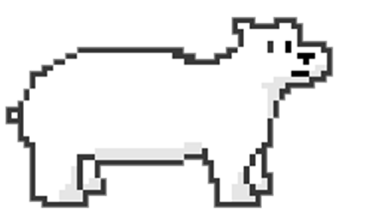
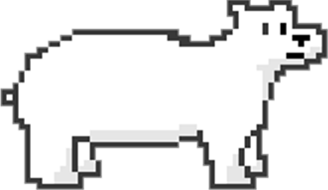
Enemigos e incremento de dificultad conforme se avanza

Changed region(s): [[0.0, 0.0, 1.0, 1.0], [0.2744, 0.6842, 0.4878, 0.7105]]

diff --git a/core/src/mx/itesm/eko/PantallaJuego.java b/core/src/mx/itesm/eko/PantallaJuego.java
@@ -23,11 +23,16 @@ class PantallaJuego extends PantallaAbstracta {
     // Personaje
     private Personaje personaje;
     private Enemigo enemigo;
+    private Enemigo enemigo1;
+    private Enemigo enemigo2;
+    private Enemigo enemigo3;
 
     // Texturas
     private Texture texturaPersonaje;
     private Texture texturaFondo;
-    private Texture texturaEnemigo;
+    private Texture texturaEnemigo1;
+    private Texture texturaEnemigo2;
+    private Texture texturaEnemigo3;
     private Texture texturaPersonajeAbajo;
 
     // Movimientos
@@ -35,7 +40,8 @@ class PantallaJuego extends PantallaAbstracta {
     private Movimiento movimientoEnemigo = Movimiento.IZQUIERDA;
     private float timerPersonaje = 0;
     private float timerEnemigo = 0;
-    private int pasoEnemigo = 5;
+    private int pasoEnemigo = 10;
+    private float velocidadEnemigo;
 
     // Marcador
     private Marcador marcador;
@@ -73,12 +79,17 @@ class PantallaJuego extends PantallaAbstracta {
     }
 
     private void createEnemigo(){
-        enemigo=new Enemigo(texturaEnemigo,ANCHO,ALTO*0.05f,1);
+        enemigo1=new Enemigo(texturaEnemigo1,ANCHO,ALTO*0.05f,1);
+        enemigo2=new Enemigo(texturaEnemigo2,ANCHO,ALTO*0.05f,2);
+        enemigo3=new Enemigo(texturaEnemigo3,ANCHO,ALTO*0.05f,3);
+        cambiarEnemigo();
     }
 
     private void cargarTexturas() {
         texturaPersonaje = new Texture("asset"+assets+".png");
-        texturaEnemigo = new Texture("enemigo"+assets+".png");
+        texturaEnemigo1 = new Texture("enemigo"+assets+"1.png");
+        texturaEnemigo2 = new Texture("enemigo"+assets+"2.png");
+        texturaEnemigo3 = new Texture("enemigo"+assets+"3.png");
         texturaPersonajeAbajo = new Texture("asset"+assets+"Abajo.png");
     }
 
@@ -114,6 +125,10 @@ class PantallaJuego extends PantallaAbstracta {
 
     private void actualizar(float delta) {
         marcador.marcar(1);
+        if (velocidadEnemigo<=25) {
+            velocidadEnemigo = 15 + marcador.getScore() * 0.0005f;
+
+        }
     }
 
     private void moverPersonaje(float delta) {
@@ -143,16 +158,44 @@ class PantallaJuego extends PantallaAbstracta {
     }
 
     private void moverEnemigo(float delta) {
-        switch (movimientoEnemigo){
-            case IZQUIERDA:
-                enemigo.moverHorizontal(-9);
+        switch (enemigo.getTipo()){
+            case 1:
+                enemigo.moverHorizontal(-velocidadEnemigo);
                 timerEnemigo += delta;
                 if (timerEnemigo > 0.5){
                     timerEnemigo = 0;
                     pasoEnemigo =- pasoEnemigo;
                 }
-                enemigo.moverVertical(pasoEnemigo);
+                if (enemigo.sprite.getY()<=0){
+                    timerEnemigo = 0;
+                    pasoEnemigo =10;
+                }
+                if (enemigo.sprite.getY()>=0.35f*ALTO){
+                    timerEnemigo = 0;
+                    pasoEnemigo =-10;
+                }
+                if (enemigo.sprite.getX()>=ANCHO*0.6f) {
+                    enemigo.moverVertical(pasoEnemigo);
+                }
+
                 if(enemigo.sprite.getX()<-300) {
+                    cambiarEnemigo();
+                    enemigo.sprite.setPosition(ANCHO, rnd.nextFloat()*ALTO/4);
+                }
+                break;
+            case 2:
+                enemigo.sprite.setY(-0.05f*ALTO);
+                enemigo.moverHorizontal(-velocidadEnemigo);
+                if(enemigo.sprite.getX()<-300) {
+                    cambiarEnemigo();
+                    enemigo.sprite.setPosition(ANCHO, rnd.nextFloat()*ALTO/4);
+                }
+                break;
+            case 3:
+                enemigo.sprite.setY(0.3f*ALTO);
+                enemigo.moverHorizontal(-velocidadEnemigo);
+                if(enemigo.sprite.getX()<-300) {
+                    cambiarEnemigo();
                     enemigo.sprite.setPosition(ANCHO, rnd.nextFloat()*ALTO/4);
                 }
                 break;
@@ -160,6 +203,23 @@ class PantallaJuego extends PantallaAbstracta {
                 break;
 
         }
+    }
+
+    private void cambiarEnemigo() {
+        switch ((int)(Math.floor(Math.random()*3+1))) {
+            case 1:
+                enemigo=enemigo1;
+                break;
+            case 2:
+                enemigo=enemigo2;
+                break;
+            case 3:
+                enemigo=enemigo3;
+                break;
+            default:
+                break;
+        }
+
     }
 
     @Override
@@ -342,7 +402,7 @@ class PantallaJuego extends PantallaAbstracta {
         Rectangle rectPersonaje = personaje.sprite.getBoundingRectangle();
         Rectangle rectEnemigo = enemigo.sprite.getBoundingRectangle();
         if(rectPersonaje.overlaps(rectEnemigo)){
-            enemigo.sprite.setPosition(ANCHO,rnd.nextFloat()*ALTO/4);
-        }
+            cambiarEnemigo();
+            enemigo.sprite.setX(ANCHO);        }
     }
 }

diff --git a/core/src/mx/itesm/eko/Enemigo.java b/core/src/mx/itesm/eko/Enemigo.java
@@ -3,9 +3,10 @@ package mx.itesm.eko;
 import com.badlogic.gdx.graphics.Texture;
 
 public class Enemigo extends Objeto {
-
+    int tipoEnemigo;
     public Enemigo(Texture textura, float x, float y,int tipoEnemigo) {
         super(textura, x, y);
+        this.tipoEnemigo=tipoEnemigo;
     }
 
     public void moverHorizontal(float dx){
@@ -17,6 +18,11 @@ public class Enemigo extends Objeto {
 
 
     public void setPosition(float x, float y){
-    sprite.setPosition(x,y);
+        sprite.setPosition(x,y);
     }
+
+    public int getTipo(){
+        return tipoEnemigo;
+    }
+
 }

diff --git a/core/src/mx/itesm/eko/Marcador.java b/core/src/mx/itesm/eko/Marcador.java
@@ -39,4 +39,8 @@ public class Marcador {
     public float getHeight(){
         return texto.getHeight();
     }
+
+    public int getScore(){
+        return score;
+    }
 }
